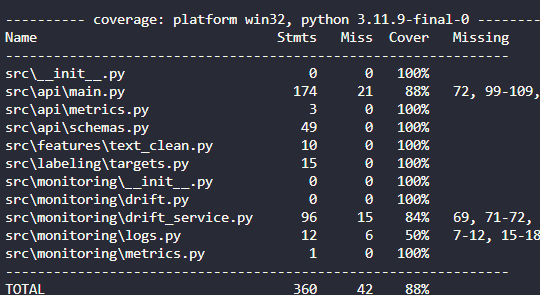
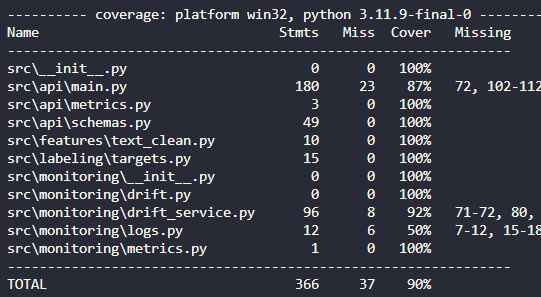
finalizado o projeto

Changed region(s): [[0.0, 0.0305, 0.9481, 1.0], [0.8296, 0.6712, 1.0, 0.8237], [0.8296, 0.2746, 1.0, 0.3356]]

diff --git a/tests/unit/test_drift_exceptions.py b/tests/unit/test_drift_exceptions.py
@@ -1,0 +1,63 @@
+import sys
+import types
+from pathlib import Path
+from importlib import reload
+import csv
+import pandas as pd
+
+def test_compute_handles_html_and_asdict_exceptions(tmp_path):
+    # Fake Evidently que explode em save_html e as_dict
+    fake_report_mod = types.ModuleType("evidently.report")
+    fake_preset_mod = types.ModuleType("evidently.metric_preset")
+
+    class FakeReport:
+        def __init__(self, metrics):
+            pass
+        def run(self, reference_data, current_data):
+            return None
+        def save_html(self, out):
+            raise RuntimeError("boom on save_html")
+        def as_dict(self):
+            raise RuntimeError("boom on as_dict")
+
+    class FakePreset:
+        pass
+
+    sys.modules["evidently"] = types.ModuleType("evidently")
+    sys.modules["evidently.report"] = fake_report_mod
+    sys.modules["evidently.metric_preset"] = fake_preset_mod
+    fake_report_mod.Report = FakeReport
+    fake_preset_mod.DataDriftPreset = FakePreset
+
+    import src.monitoring.drift_service as drift_service
+    reload(drift_service)
+
+    # preparar baseline/log suficientes
+    artifacts = tmp_path / "artifacts"
+    baseline = artifacts / "baseline_features.csv"
+    mon = tmp_path / "monitoring"
+    reports = mon / "drift_reports"
+    logf = mon / "requests_log.csv"
+
+    artifacts.mkdir(parents=True, exist_ok=True)
+    mon.mkdir(parents=True, exist_ok=True)
+
+    pd.DataFrame({"cv_len":[10]*210, "job_len":[100]*210, "score":[0.5]*210}).to_csv(baseline, index=False)
+
+    with logf.open("w", newline="", encoding="utf-8") as f:
+        w = csv.writer(f)
+        w.writerow(["ts","endpoint","cv_len","job_len","score"])
+        for i in range(210):
+            w.writerow([i, "/score", 12+i%3, 200+i%5, (i%10)/10])
+
+    drift_service.ARTIFACTS = artifacts
+    drift_service.BASELINE = baseline
+    drift_service.MON_DIR = mon
+    drift_service.REPORTS_DIR = reports
+    drift_service.LOG_FILE = logf
+
+    # não deve lançar erro, mesmo com as exceções internas
+    drift_service.compute_and_export()
+
+    # como save_html falhou, não deve haver arquivo
+    assert list(reports.glob("drift_*.html")) == []

diff --git a/tests/unit/test_drift_loaders.py b/tests/unit/test_drift_loaders.py
@@ -1,0 +1,53 @@
+from pathlib import Path
+import csv
+import pandas as pd
+from importlib import reload
+
+def test_load_baseline_adds_missing_columns(tmp_path):
+    import src.monitoring.drift_service as drift_service
+    reload(drift_service)
+
+    # baseline com só uma coluna; o loader deve criar as demais como 0
+    artifacts = tmp_path / "artifacts"
+    artifacts.mkdir(parents=True, exist_ok=True)
+    baseline = artifacts / "baseline_features.csv"
+    pd.DataFrame({"cv_len": [5, 10, 15]}).to_csv(baseline, index=False)
+
+    drift_service.ARTIFACTS = artifacts
+    drift_service.BASELINE = baseline
+
+    df = drift_service._load_baseline()
+    assert list(df.columns) == ["cv_len", "job_len", "score"]
+    assert (df["job_len"] == 0).all()
+    assert (df["score"] == 0).all()
+
+def test_load_current_window_casts_and_drops(tmp_path):
+    import src.monitoring.drift_service as drift_service
+    reload(drift_service)
+
+    mon = tmp_path / "monitoring"
+    logf = mon / "requests_log.csv"
+    mon.mkdir(parents=True, exist_ok=True)
+
+    # mistura valores válidos e inválidos para exercitar to_numeric + dropna
+    with logf.open("w", newline="", encoding="utf-8") as f:
+        w = csv.writer(f)
+        w.writerow(["ts", "endpoint", "cv_len", "job_len", "score"])
+        # algumas linhas inválidas
+        w.writerow([0, "/score", "x", 100, 0.1])
+        w.writerow([1, "/score", 12, "y", 0.2])
+        w.writerow([2, "/score", 15, 110, "z"])
+        # linhas válidas (>=200 para passar min_rows)
+        for i in range(205):
+            w.writerow([i+3, "/score", 20 + (i % 3), 200 + (i % 5), (i % 10) / 10])
+
+    drift_service.MON_DIR = mon
+    drift_service.LOG_FILE = logf
+
+    df = drift_service._load_current_window()
+    # as 3 primeiras caem fora; o resto entra
+    assert df is not None
+    assert len(df) >= 200
+    assert df["cv_len"].dtype.kind in "fi"
+    assert df["job_len"].dtype.kind in "fi"
+    assert df["score"].dtype.kind in "fi"

diff --git a/src/api/main.py b/src/api/main.py
@@ -1,7 +1,7 @@
 # src/api/main.py
 from contextlib import asynccontextmanager
 from pathlib import Path
-from typing import Optional
+from typing import Optional, List
 
 import csv
 import json
@@ -90,8 +90,11 @@ def load_model():
             pass
 
     env_k = os.getenv("TARGET_K")
-    if env_k and env_k.isdigit():
-        _target_k = int(env_k)
+    if env_k:
+        try:
+            _target_k = int(env_k)
+        except Exception:
+            pass
 
 
 def _init_monitoring():
@@ -231,7 +234,7 @@ def score(payload: ScoreRequest):
 
 
 @app.post("/score-batch")
-def score_batch(payload: list[ScoreRequest]):
+def score_batch(payload: List[ScoreRequest]):
     """Retorna lista simples de {score, pass_by_threshold, threshold_used}."""
     rows = []
     for p in payload:
@@ -337,3 +340,9 @@ def rank_candidates(payload: RankCandidatesRequest):
 
     items = items_all[:k_target]
     return RankResponse(items=items, used_k=len(items), threshold_used=thr)
+
+
+if __name__ == "__main__":
+    import uvicorn
+
+    uvicorn.run("src.api.main:app", host="0.0.0.0", port=8000, reload=False)

diff --git a/README.md b/README.md
@@ -131,15 +131,19 @@ scripts\train.bat
 - **Missing**: linhas (ou faixas) específicas que ficaram sem execução.
 
 ### Leitura dos números (snapshot atual)
-- **Cobertura total**: **88%** (360 linhas, 42 faltantes).
-- **Destaques positivos**: `src/api/schemas.py`, `src/features/text_clean.py`, `src/labeling/targets.py` e `src/api/metrics.py` com **100%**.
+- **Cobertura total**: **90%** (366 linhas, 37 faltantes) ✅
+- **Destaques positivos**:
+  - `src/api/schemas.py`, `src/features/text_clean.py`, `src/labeling/targets.py` e `src/api/metrics.py` com **100%**.
+  - `src/monitoring/drift_service.py` avançou para **92%** — bom sinal de estabilidade no monitoramento e no fluxo do Evidently.
 - **A melhorar**:
-  - `src/api/main.py` → **88%** (linhas faltantes: `72, 99–109, 115, 121–122, 132–134, 168–170, 223–224`).  
-    *Geralmente ramos específicos (ex.: caminhos alternativos, validações/erros ou trechos de inicialização).*
-  - `src/monitoring/drift_service.py` → **84%** (linhas faltantes: `69, 71–72, 80, 87, 89–90, 112–113, 117–118, 132–137`).  
-    *Normalmente partes ligadas ao fluxo do Evidently/relatórios e branches de exceção.*
+  - `src/api/main.py` → **87%** (linhas faltantes: `72, 102–112, 118, 124–125, 135–137, 171–173, 226–227, 346–348`).  
   - `src/monitoring/logs.py` → **50%** (linhas faltantes: `7–12, 15–18`).  
-    *Cobrir helpers de logging com casos de sucesso e falha.*
+
+
+### 90% de cobertura!
+- **Confiança em produção**: reduz risco de regressões silenciosas, especialmente em endpoints críticos e no pipeline de monitoramento.
+- **Facilidade de evolução**: refactors ficam mais seguros e rápidos, já que os testes “seguram” contratos.
+- **Qualidade contínua**: 90% como **quality gate** no CI ajuda a manter o padrão de entrega ao longo do tempo.
 
 ---
 
